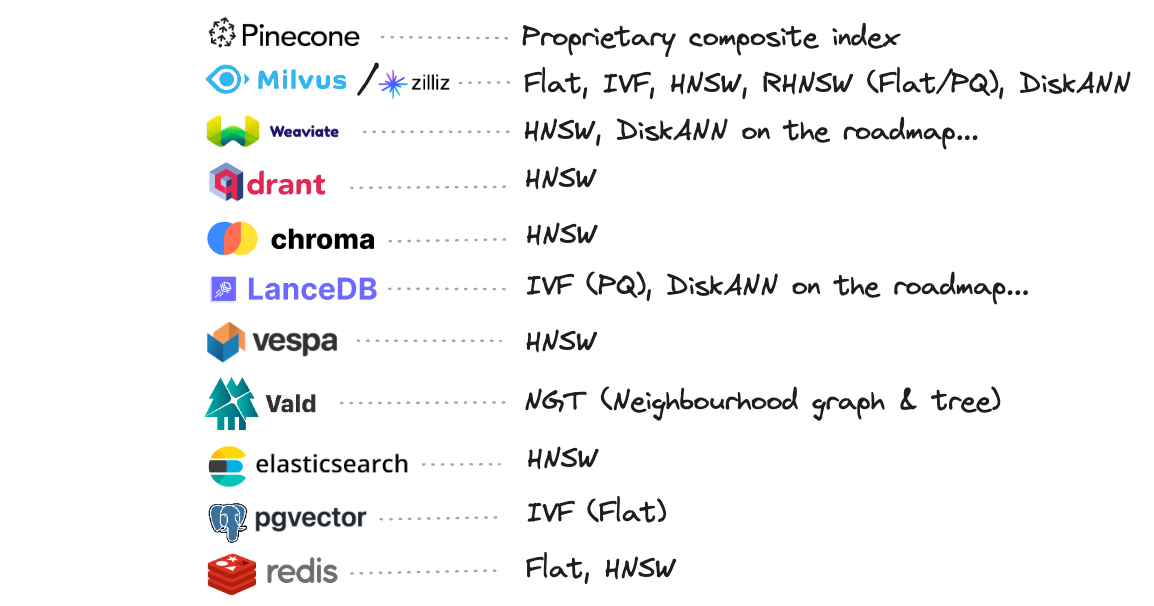
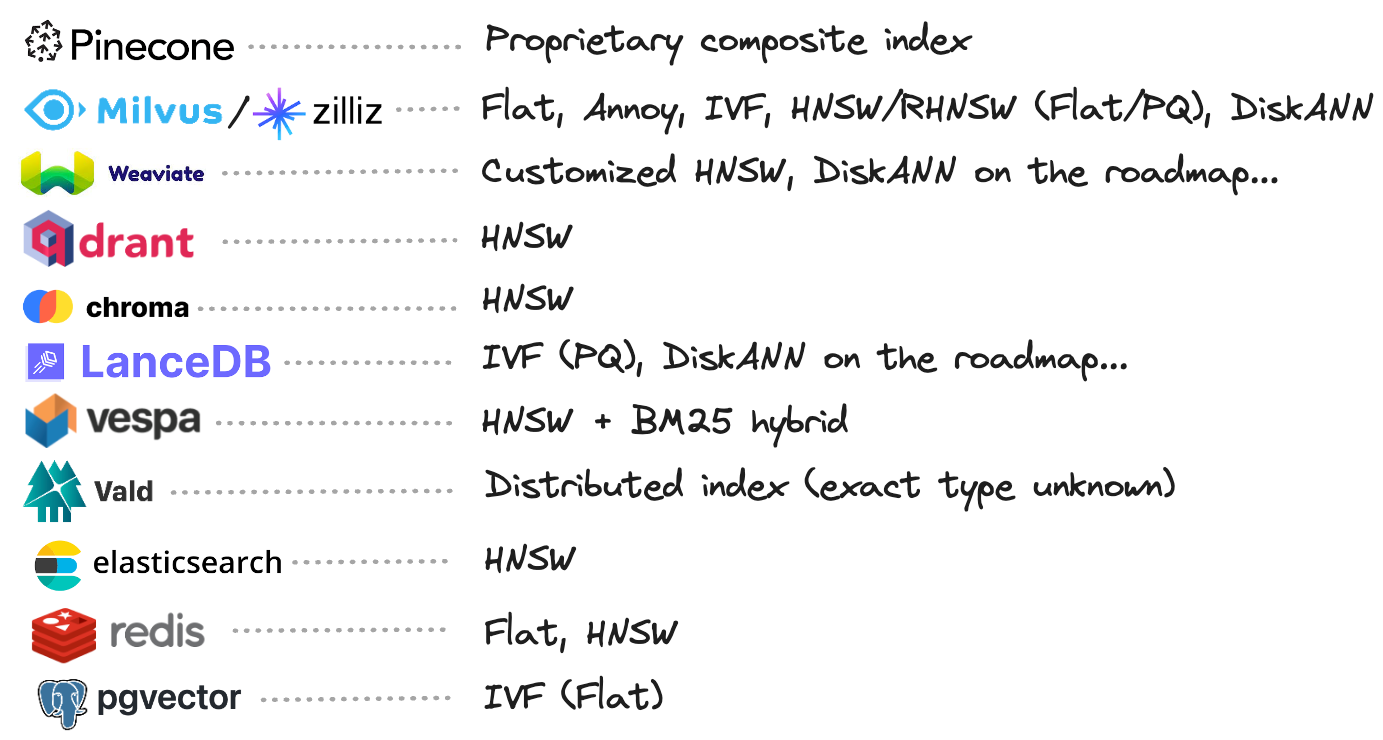
Finalize part 1

diff --git a/content/posts/vector-db-1/index.md b/content/posts/vector-db-1/index.md
@@ -1,8 +1,8 @@
 +++ 
-draft = true
-date = 2023-06-24
+draft = false
+date = 2023-06-28
 title = "Vector databases (Part 1): A visual comparison"
-description = "What makes vector databases like Qdrant, Weaviate, Milvus, Vespa, Chroma, Pinecone and LanceDB different from one another"
+description = "What makes vector databases like Qdrant, Weaviate, Milvus, Vespa, Vald, Chroma, Pinecone and LanceDB different from one another"
 tags = ["vector-db"]
 categories = ["general", "databases"]
 math = true
@@ -10,41 +10,43 @@ math = true
 
 # A gold rush in the database landscape
 
-There's been a lot of marketing (and unfortunately, hype) related to vector databases in the first half of 2023, and if you're reading this, you're likely curious _why_ so many kinds exist and what makes them different from one another. On paper, vector databases all do the same thing (they perform semantic search), so how does one begin to form an informed opinion on each of them? 🤔
+There's been a lot of marketing (and unfortunately, hype) related to vector databases in the first half of 2023, and if you're reading this, you're likely curious _why_ so many kinds exist and what makes them different from one another. On paper, vector databases all do the same thing (they enable a host of applications that require semantic search), so how does one begin to form an informed opinion on each of them? 🤔
 
-In this post, I'll do my best to highlight the differences between the various vector databases out there, as visually as possible. I'll also highlight specific dimensions on which I'm performing the comparison, to offer the most holistic view I can.
+In this post, I'll do my best to highlight the differences between the various vector databases out there, as visually as possible. I'll also highlight specific dimensions on which I'm performing the comparison, to offer a more holistic view.
 
 ## So many options! 🤯
 
-I've been researching the different vector database options for the last several months, and I find the following issues:
+Over the last several months, I've been researching different vector databases and their internals, as well as interacting with them via their Python APIs, and I've come across the following common issues:
 
-1. Each database vendor upsells their own capabilities while downselling their competitors, so it's easy to get a biased view, depending on the source you get the information from
-1. There are **many** vector DB vendors out there, and it requires a lot of reading across multiple sources to connect the various dots and understand the landscape, and what underlying technologies exist
-1. When it comes to vector search, there are **many** trade-offs to consider:
-  * Hybrid, or keyword search?: Often, a hybrid search method (keyword + vector) yields the best results, and each vector database vendor, having realized this, offers their own hybrid search solutions
-  * On-premise, or cloud-native?: A lot of vendors upsell "cloud-native" as though infrastructure is the world's biggest pain point, but on-premise deployments can be much more economical over the long term
-1. Each vendor monetizes their technology stack very differently, so it helps to know the above trade-offs
+1. Each database vendor upsells their own capabilities (naturally) while downselling their competitors', so it's easy to get a biased viewpoint, depending on where you look
+2. There are **many** vector DB vendors out there, and it requires a lot of reading across multiple sources to connect the various dots and understand the landscape, and what underlying technologies exist
+3. When it comes to vector search, there are **many** trade-offs to consider:
+    * __Hybrid, or keyword search?__ Often, a hybrid of keyword + vector search yields the best results, and each vector database vendor, having realized this, offers their own hybrid search solutions
+    * __On-premise, or cloud-native?__ A lot of vendors upsell "cloud-native" as though infrastructure is the world's biggest pain point, but on-premise deployments can be much more economical, and thus effective, over the long term
+    * __Open source, or fully managed?__ Most vendors build on top of a source-available or open source code base that showcases their underlying methodology, and then monetize the deployment and infrastructure portions of the pipeline (through fully managed SaaS). It's still possible to self-host a lot of them, but that comes with additional manpower and in-house skill requirements.
 
-To consolidate things and keep them a bit more organized, I've prepared a [running spreadsheet](https://docs.google.com/spreadsheets/d/1tUxif_MQYByprhFArZ2XqssvlMVfn5mKjsPjYTOO08o/edit?usp=sharing) of the different vendors to document key defining characteristics and milestones for each vendor, and I now have **eight** purpose-built vector databases and **three** incumbent (established) vendors in my list. There are likely many more that I've missed, so do let me know in the comments!
+To consolidate things and keep them a bit more organized, I've prepared a [running spreadsheet](https://docs.google.com/spreadsheets/d/1tUxif_MQYByprhFArZ2XqssvlMVfn5mKjsPjYTOO08o/edit?usp=sharing) of the different vector DB vendors to document key defining characteristics and milestones. There are likely many more that I've missed, so do let me know in the comments!
 
 ## Comparing the various vector databases
 
-As described in [the goals](#the-goal), we are comparing 8 purpose-built vector database offerings, and 3 existing ones that add vector search as an extra feature.
+As of June 2023, I'm looking at 8 purpose-built vector database offerings, and 3 existing ones that add vector search as an extra feature.
 
-### Location of headquarters
+### Location of headquarters and funding
 
-Database vendor | Headquartered in
-----------------|-----------------
-Weaviate        |  🇳🇱 Amsterdam
-Qdrant          |  🇩🇪 Berlin
-Pinecone        |  🇺🇸 San Francisco
-Milvus/Zilliz   |  🇨🇳 / 🇺🇸 San Francisco
-Chroma          |  🇺🇸 San Francisco
-LanceDB         |  🇺🇸 San Francisco
-Vespa           |  🇺🇸 Redwood City
-Vald            |  🇯🇵 Tokyo
+Keeping aside the incumbents (i.e., established vendors) we can start by tracking funding milestones[^1] for each vector database startup.
 
-There's clearly a LOT of activity in the Bay Area, California when it comes to vector databases!
+Company         | Headquartered in | Funding
+----------------|------------------|-----------------
+Weaviate        |  🇳🇱 Amsterdam           |  $68M Series B
+Qdrant          |  🇩🇪 Berlin              |  $11M Seed
+Pinecone        |  🇺🇸 San Francisco       |  $138M Series B
+Milvus/Zilliz   |  🇨🇳 / 🇺🇸 San Francisco  |  $113M Series B
+Chroma          |  🇺🇸 San Francisco       |  $20M Seed
+LanceDB         |  🇺🇸 San Francisco       |  Venture
+Vespa           |  🇺🇸 Redwood City        |  Yahoo
+Vald            |  🇯🇵 Tokyo               |  Yahoo Japan
+
+There's clearly a LOT of activity in the Bay Area, California when it comes to vector databases! Also, there's a large amount of variation in the funding and valuation, and it's clear that there exists no correlation between the capabilities of a database and the amount it's funded for.
 
 ### Timeline
 
@@ -52,39 +54,39 @@ How long has each vector database been around?
 
 {{< figure src="vector-db-timeline.png" >}}
 
-Vespa was among the earliest vendors to incorporate vector similarity search alongside the then-dominant BM25 keyword-based search algorithm. Weaviate soon followed with an open-source, dedicated vector search database offering in the end of 2018, and by 2019, we began to see more competition in the space with Milvus (also open-source) being released. Not that Zilliz, shown in the timeline, is not listed in the primary list because it is a commercial cloud-based offering built on top of Milvus. In 2021, three new vendors entered the foray: Vald, Qdrant and Pinecone. Incumbents like Elasticsearch, Redis & PostgreSQL were conspicuously absent until this point and began offering vector search much later than one might think -- only in 2022 and beyond.
+Vespa was among the earliest vendors to incorporate vector similarity search alongside the then-dominant BM25 keyword-based search algorithm. Weaviate soon followed with an open-source, dedicated vector search database offering in the end of 2018, and by 2019, we began to see more competition in the space with Milvus (also open-source) being released. Note that Zilliz, shown in the timeline, is not listed in the primary list because it is a commercial cloud-based offering built on top of Milvus. In 2021, three new vendors entered the foray: Vald, Qdrant and Pinecone. Incumbents like Elasticsearch, Redis & PostgreSQL were conspicuously absent until this point and began offering vector search much later than one might think -- only in 2022 and beyond.
 
 ### Source code availability
 
-Among all the options listed, **only one** is completely closed-source: Pinecone. Although Zilliz is a commercial offering, it's built on top of Milvus (which is open source) by the same parent company. All the other options are at least source-available in terms of the code base, with the exact license determining the permissibility of commercial deployment of the database itself.
+Among all the options listed, **only one** is completely closed-source: Pinecone. Zilliz is a closed-source fully-managed commercial solution too, but it's built entirely on top of Milvus and can be viewed as Milvus's parent entity. All the other options are at least source-available in terms of the code base, with the exact license determining the permissibility of the code and how it's deployed.
 
 {{< figure src="vector-db-source-available.png" >}}
 
 {{< notice tip >}}
-Tracking issues, PRs and releases in the open source GitHub repos for each database in question provides a pretty decent idea of what's being prioritized and addressed in the roadmap. Also, the number of GitHub stars ⭐ is a good indicator of community interest (though in some cases, hype).
+As a developer, I've found that tracking issues, PRs and releases in the open source GitHub repos for each database in question provides a pretty decent idea of what's being prioritized and addressed in the roadmap. Also, the number of GitHub stars ⭐ is a good indicator of community interest in the project.
 
-> As a developer, I always prefer working with source-available databases for these reasons.
+> My developer mind is always uncomfortable with the opaque nature of closed-source products, and as such, I always prefer working with source-available products for the above reasons.
 {{< /notice >}}
 
 ### Choice of programming language
 
-Fast, responsive and scalable databases are typically written these days in modern languages like Golang or Rust. Among the purpose-built vendors, only Vespa is written in Java. Chroma is currently a Python/TypeScript wrapper on top of Clickhouse, an OLAP database built in C++, and an open source vector index, [HNSWLib](https://github.com/nmslib/hnswlib).
+Fast, responsive and scalable databases are typically written these days in modern languages like Golang or Rust. Among the purpose-built vendors, the only one that is built in Java is Vespa. Chroma is currently a Python/TypeScript wrapper on top of Clickhouse, an OLAP database built in C++, and an open source vector index, [HNSWLib](https://github.com/nmslib/hnswlib).
 
 {{< figure src="vector-db-lang.png" >}}
 
 
-Interestingly, both Pinecone[^2] and Lance[^3], the underlying storage format for LanceDB, **were rewritten from the ground up** in Rust, even though they were originally written in C++. Clearly, the database community is slowly but surely embracing Rust 🦀!
+Interestingly, both Pinecone[^2] and Lance[^3], the underlying storage format for LanceDB, **were rewritten from the ground up** in Rust, even though they were originally written in C++. Clearly, the database community is slowly embracing Rust 🦀💪!
 
 ### Hosting methods
 
-The typical hosting methods provided by database vendors include self-hosted (on-premise) and managed/cloud-native hosting options, which both follow the client-server architecture. The third, more recent option, is embedded mode, where the data storage is tightly coupled with the application code in a serverless manner. Currently, only Chroma and LanceDB provide this hosting mode.
+The typical hosting methods provided by database vendors include self-hosted (on-premise) and managed/cloud-native, both of which follow the client-server architecture. The third, more recent option, is _embedded_ mode, where the database itself is tightly coupled with the application code in a serverless manner. Currently, only Chroma and LanceDB are available as embedded databases.
 
 {{< figure src="vector-db-hosting.png" >}}
 
 The circled portion in the diagram is particularly interesting for two reasons:
 
 * Chroma is attempting to build an all-in-one offering that has embedded mode (default), a managed cloud-native server[^4] that follows a client-server architecture, and a cloud-hosted distributed system that enables serverless computing on the cloud
-* LanceDB, the youngest vector database out there at the time of writing, has an ambitious goal of offering multimodal AI database in embedded mode (default), with a fully managed cloud offering[^5] that offers a distributed serverless computing environment, very similar to Chroma, but fully based on the [Lance data format](https://lancedb.github.io/lance/), a modern, columnar format for ML under the hood.
+* LanceDB, the youngest vector database out there at the time of writing, has an ambitious goal of offering multimodal AI database in embedded mode (default), with a fully managed cloud offering[^5] that offers a distributed serverless computing environment, very similar to Chroma, but fully based on the [Lance data format](https://lancedb.github.io/lance/), a modern, columnar format for ML.
 
 ### Indexing methods
 
@@ -92,21 +94,81 @@ Most vendors use a hybrid vector search methodology, that combines keyword and v
 
 {{< figure src="vector-db-indexes.png" >}}
 
-The vast majority of database vendors opt for their custom implementation of the HNSW (Hierarchical Navigable Small-World graphs) index. Vald is the only vendor that provides a purely tree-based index, NGT. Persisting the indexes to disk is fast becoming an important, and numerous vendors in this list (Qdrant, Weaviate, Milvus and LanceDB) already provide the means to index larger-than-memory datasets using a variety of algorithms. The 2019 NeurIPS paper on DiskANN[^6] showed that it has the potential to be the fastest on-disk indexing algorithm for searching on billions of points, and so, databases like Milvus, Weaviate and LanceDB, that have already implemented their own versions of DiskANN (or are actively doing so), are ones to watch out for in this area.
+The vast majority of database vendors opt for their custom implementation of HNSW (Hierarchical Navigable Small-World graphs). Persisting the vector index to disk is fast becoming an important objective, so as to handle larger-than-memory datasets. The 2019 NeurIPS paper on DiskANN[^6] showed that it has the potential to be the fastest on-disk indexing algorithm for searching on billions of data points, and so, databases like Milvus, Weaviate and LanceDB, that have already implemented their own versions of DiskANN (or are actively doing so), are ones to watch out for in this area.
+
+## Key features
+
+In this section, I'll list some of the key features and the pros and cons of each database. A lot of this is my informed opinion, obtained through various means (blogs, podcasts, research papers, conversations with users, and my own code).
+
+### Pinecone
+
+* __Pros__: Very easy to get up and running (no hosting burden, it's fully cloud-native), and doesn't expect the user to know anything about vectorization or vector indexes. As per their documentation (which is also quite good), it just _works_.
+* __Cons__: Fully proprietary, and it's impossible to know what goes on under the hood and what's on their roadmap without being able to follow their progress on GitHub. Also, [certain users' experience](https://twitter.com/garywupx/status/1631238355634495488) showcase the danger of relying on a fully external, third-party hosting service and the complete lack of control from the developer's standpoint on how the database is set up and run. The cost implications in the long run also can be significant, especially with the sheer number of self-hosted alternatives out there.
+
+* __My take__: In 2020-21, when vector databases were very much under the radar, Pinecone was much ahead of the curve and offered convenience features to developers in a way that other vendors didn't. Fast forward to 2023, and frankly, there's little that Pinecone offers now that other vendors don't, and most of the other vendors at least offer a self-hosted, managed or embedded mode, not to mention that the source code for their algorithms and their underlying technology is transparent to the end user.
+
+### Weaviate
+
+* __Pros__: _Amazing_ [documentation](https://weaviate.io/developers/weaviate) (one of the best out there, including technical details and ongoing experiments). Developer experience is really good, it's very easy to get up and running via Docker, and it provides very fast, sub-millisecond search results, while offering both keyword and vector search functionality.
+* __Cons__: Because it's built in Golang, scalability is achieved through Kubernetes and really large datasets may require a fair amount of resources and compute. The cost implications for their fully-managed offering over the long term are unknown due to this factor -- it _could_ cost more to operate in production than Rust-based alternatives like Qdrant and LanceDB (time will tell).
+* __My take__: Weaviate has a great user community, and the development team are actively experimenting with extreme scalability (hundreds of billions to a trillion vectors in the index), so it does seem that their target market is large-scale enterprises that have mountains of data on which to do vector search. It's hybrid search features are quite popular, and they are actively publishing [use cases that support data science and machine learning](https://www.youtube.com/watch?v=IRWHa57T-zk) via vector databases, not just search.
+
+### Qdrant
+
+* __Pros__: Although newer than Weaviate, Qdrant also has very good documentation that helps users get up and running via Docker with ease. Built entirely in Rust, it offers APIs that developers can tap into via its Rust, Python and Golang clients, which are the most popular languages for backend devs these days. Due to the underlying power of Rust, its resource utilization seems lower than alternatives built in Golang (at least in my experience). Scalability is currently achieved through partitioning and the Raft consensus protocol, which are standard practices in the database space.
+* __Cons__: Being a relatively newer tool than its competitors, Qdrant has been playing catch-up with alternatives like Weaviate and Milvus, in areas like user interfaces for querying, though [that gap is rapidly reducing](https://qdrant.tech/articles/qdrant-1.3.x/#qdrant-web-user-interface) with each new release.
+* __My take__: I think Qdrant stands poised to become the go-to, first-choice vector search backend for a lot of companies that want to minimize infrastructure costs and leverage the power of a modern programming language, Rust. It's clear that Qdrant's user community is rapidly growing (interestingly, faster than Weaviate's), as per [its GitHub star history!](https://star-history.com/#weaviate/weaviate&qdrant/qdrant&Date). Perhaps developers are all hyped-up about 🦀 Rust?
+
+### Milvus/Zilliz
+
+* __Pros__: Very mature database with a host of algorithms, due to its lengthy presence in the vector DB ecosystem. Offers [a **lot** of options](https://milvus.io/docs/index.md) for vector indexing and built from the ground up in Golang to be extremely scalable. As of 2023, it's the only major vendor to offer a [working DiskANN implementation](https://milvus.io/blog/2021-09-24-diskann.md), which is said to be the most efficient on-disk vector index.
+* __Cons__: To my eyes, Milvus seems to be a solution that throws the kitchen sink _and_ the refrigerator at the scalability problem -- it achieves a high degree of scalability through a combination of proxies, load balancers, message brokers, Kafka and Kubernetes, which makes the overall system really complex and resource-intensive. The client APIs (e.g., Python) are also not as readable or intuitive as newer databases like Weaviate and Qdrant, who tend to focus a lot more on developer experience.
+* __My take__: It's clear that Milvus was built with the idea of massive scalability for streaming data to a vector index, and in many cases, when the size of the data isn't too large, Milvus can seem to be overkill. For more static and infrequent large-scale situations, alternatives like Qdrant or Weaviate may be cheaper and faster to get up and running in production.
+
+### Chroma
+
+* __Pros__: Offers a convenient JavaScript API for front end developers to quickly get a vector store up and running. it was the first vector database in the market to offer embedded mode by default, where the database itself and application layers are tightly integrated.
+* __Cons__: Unlike the other purpose-built vendors, Chroma is largely a Python/TypeScript wrapper around an existing OLAP database (Clickhouse), and an existing open source vector search implementation ([hnswlib](https://github.com/nmslib/hnswlib)). A server implementation is in progress, and a lot regarding their road map is fluid and subject to change, depending on the state of the competitive market.
+* __My take__: The vector DB market is rapidly evolving, and Chroma seems to be inclined[^7] to adopt a "wait and watch" philosophy, in terms of favouring a serverless/embedded model vs. a full-fledged, cloud-native SaaS solution based on a client-server architecture. We've never yet seen an embedded database successfully be commercialized in the vector database space, so its evolution (alongside LanceDB, described below) will be interesting to watch in terms of which hosting solution becomes the most popular!!
 
 
-## Choosing between the options
+### LanceDB
 
+* __Pros__: Is designed to perform distributed indexing and search natively on multi-modal data (images, audio, text), built on top of the [Lance data format](https://lancedb.github.io/lance/), an innovative and new columnar data format for ML. Just like Chroma, LanceDB uses an embedded, serverless architecture, and is built from the ground up in Rust, so along with Qdrant, this is the only other major vector database vendor to leverage the speed 🔥, memory safety and relatively low resource utilization of Rust 🦀.
+* __Cons__: This is a **very** young database, so a lot of features are under active development, and prioritization of features will be a challenge in the coming year or so due to a small engineering team.
+* __My take__: I think among all the vector databases out there, LanceDB differentiates itself the most from the rest. This is mainly because it innovates on the data storage layer (using Lance, a new, faster columnar format than parquet, that's designed for very efficient lookups), and on the infrastructure layer -- by using a serverless architecture. As a result, a lot of infrastructure complexity is reduced, greatly increasing the developer's freedom and ability to build semantic search applications directly connected to data lakes in a distributed manner.
 
-## Conclusions
+### Vespa
 
+* __Pros__: Provides very good hybrid search (BM25 + HNSW), combining the power of keyword search and vector search. Although other vendors like Weaviate also provide keyword + vector search, Vespa was among the first to market with this offering, resulting in a mature and robust search solution.
+* __Cons__: Built entirely in Java. For leaner teams that want to modernize their tech stack, databases built in Go or Rust are normally a better bet for the longer term, in terms of resource utilization, memory consumption and scalability.
+* __My take__: I believe the world is slowly but surely moving away from Java-based databases. Almost no new databases these days are being written in Java (Rust is becoming more and more popular for databases due to its performance, memory safety and support for concurrency). As a result, the head start that Vespa once enjoyed may be well be over, with many customers looking ahead to minimize long term infrastructure cost and scale to a trillion vectors.
 
+### Vald
 
+* __Pros__: Designed to handle multi-modal data storage via a highly distributed architecture, along with useful features like index backup. Uses a very fast ANN search algorithm, NGT (Neighbourhood Graph & Tree), which is among the fastest ANN algorithms when used in conjunction with a highly distributed vector index.
+* __Cons__: Seems to have much less overall traction and usage than other vendors, and the documentation doesn't clearly describe what vector index is used ("distributed index" is rather vague). It also seems entirely funded by one entity, Yahoo! Japan, with little information on any other major users.
+* __My take__: I think Vald is a much more niche vendor than others, catering primarily to Yahoo! Japan's search requirements, and with a much smaller user community overall, at least on the basis of their GitHub stars. Part of this could be the fact that it's based in Japan, and not marketed as heavily as the other more well-placed vendors in the EU and the Bay Area.
 
-[^1]: How the revolution of natural language processing is changing the way companies understand text, [TechCrunch](https://techcrunch.com/sponsor/nvidia/how-the-revolution-of-natural-language-processing-is-changing-the-way-companies-understand-text/)
+### Elasticsearch, Redis and pgvector
+
+* __Pros__: If you're already using an existing data store like Elasticsearch, Redis or PostgreSQL, it's pretty straightfoward to utilize their vector indexing and search offering without having to resort to a new technology.
+* __Cons__: Existing databases do not necessarily store or index the data in the most optimal fashion, as they are designed to be general purpose, and as a result, for data involving million-scale vector search and beyond, performance suffers. Redis VSS (Vector Search Store) is fast primarily because it's purely in-memory, but the moment the data becomes larger than memory, it becomes necessary to think of alternative solutions.
+* __My take__: I think purpose-built and specialized vector databases will slowly out-compete established databases in areas that require semantic search, mainly because they are innovating on the most critical component when it comes to vector search -- the storage layer. Indexing methods like HNSW and ANN algorithms are well-documented in the literature and most database vendors can roll out their own implementations, but purpose-built vector databases have the benefit of being optimized to the task at hand (not to mention that they're written in modern programming languages like Go and Rust), and for reasons of scalability and performance, will most likely win out in this space in the long run.
+
+## Conclusions: The trillion-scale problem
+
+It's hard to imagine any other time in history when any one kind of database has captured this much of the public's attention, not to mention the VC ecosystem. One key use case that vector database vendors (like Milvus[^8], Weaviate[^9]) are trying to solve is how to achieve trillion-scale vector search with the lowest latency possible. This is an incredibly difficult task, and with the amount of data coming via streams or batch processing these days, it makes sense that purpose-built vector databases that optimize for storage and querying performance under the hood are the most primed to break this barrier in the near future.
+
+Whew, this was a lot to digest in one post! In the next posts, I'll summarize the underlying search and indexing algorithms in vector databases and go a bit deeper into the technical details.
+
+[^1]: Source of funding numbers: [objectbox.io](https://objectbox.io/vector-database/)
 [^2]: Rewriting a high performance vector database in Rust, [Pinecone blog](https://www.pinecone.io/learn/rust-rewrite/)
 [^3]: Rewriting Lance in Rust, [LanceDB blog](https://blog.lancedb.com/please-pardon-our-appearance-during-renovations-da8c8f49b383)
 [^4]: Chroma [Roadmap](https://docs.trychroma.com/roadmap)
 [^5]: LanceDB Cloud (serverless), [coming soon](https://lancedb.com/)
 [^6]: DiskANN: Fast Accurate Billion-point Nearest
 Neighbor Search on a Single Node, [NeurIPS 2019](https://suhasjs.github.io/files/diskann_neurips19.pdf)
+[^7]: Chroma: Open source embedding database, [Software Engineering Daily Podcast](https://softwareengineeringdaily.com/2023/04/20/open-source-embedding-database/)
+[^8]:Milvus Was Built for Massive-Scale (Think Trillion) Vector Similarity Search, [Milvus blog](https://milvus.io/blog/Milvus-Was-Built-for-Massive-Scale-Think-Trillion-Vector-Similarity-Search.md)
+[^9]: ANN algorithms: Vamana vs. HNSW, [Weaviate blog](https://weaviate.io/blog/ann-algorithms-vamana-vs-hnsw#large-scale)
